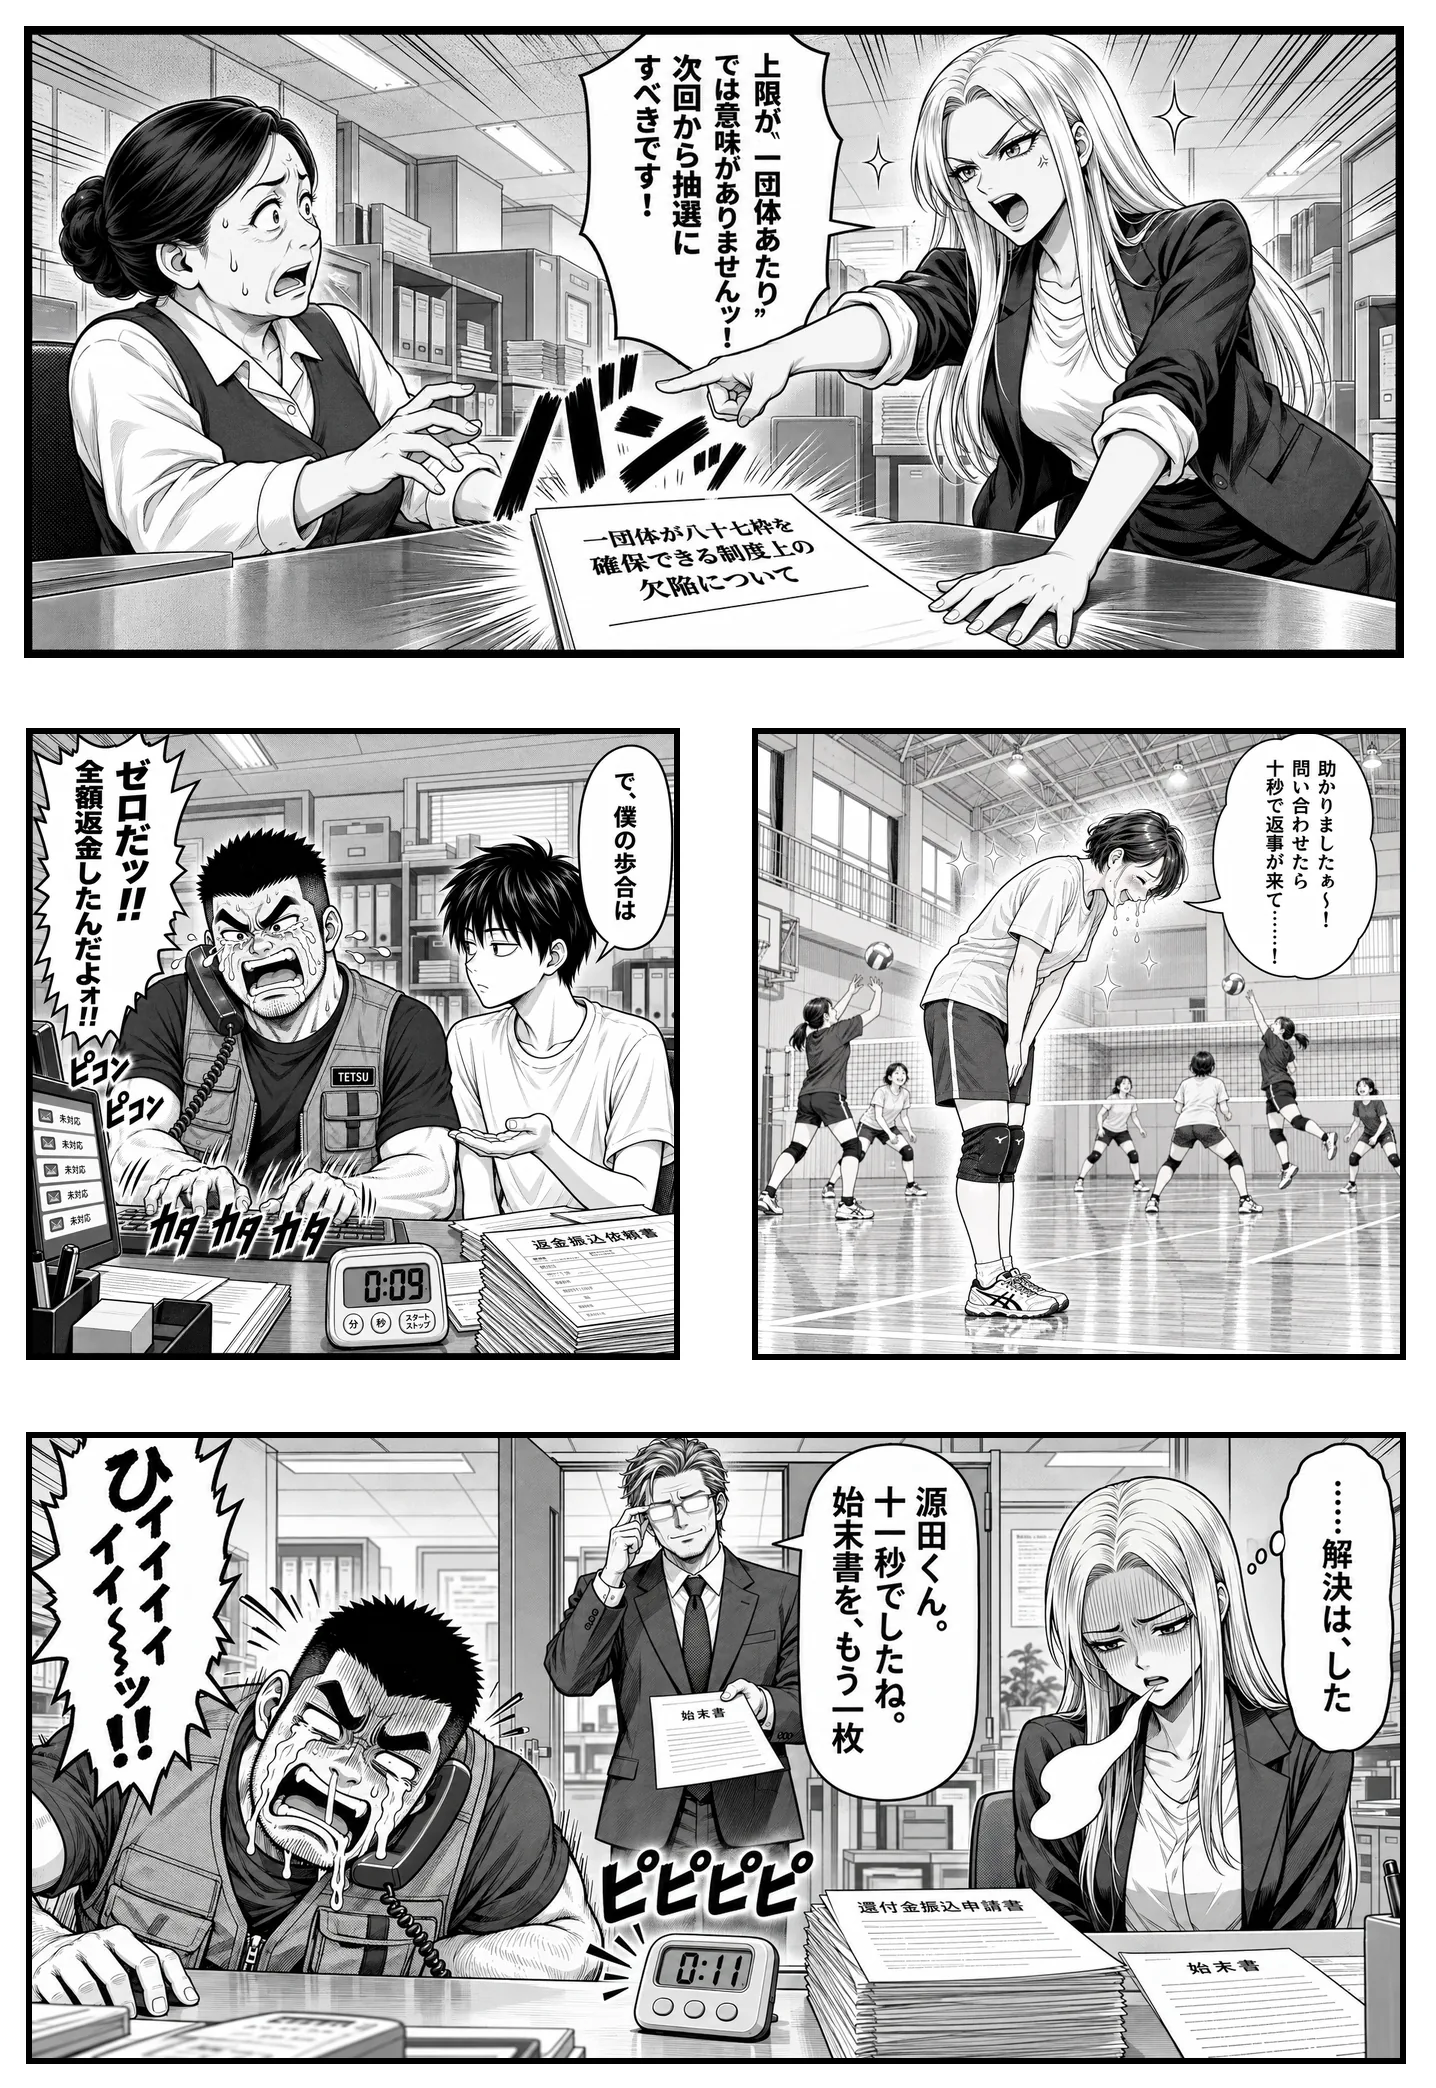
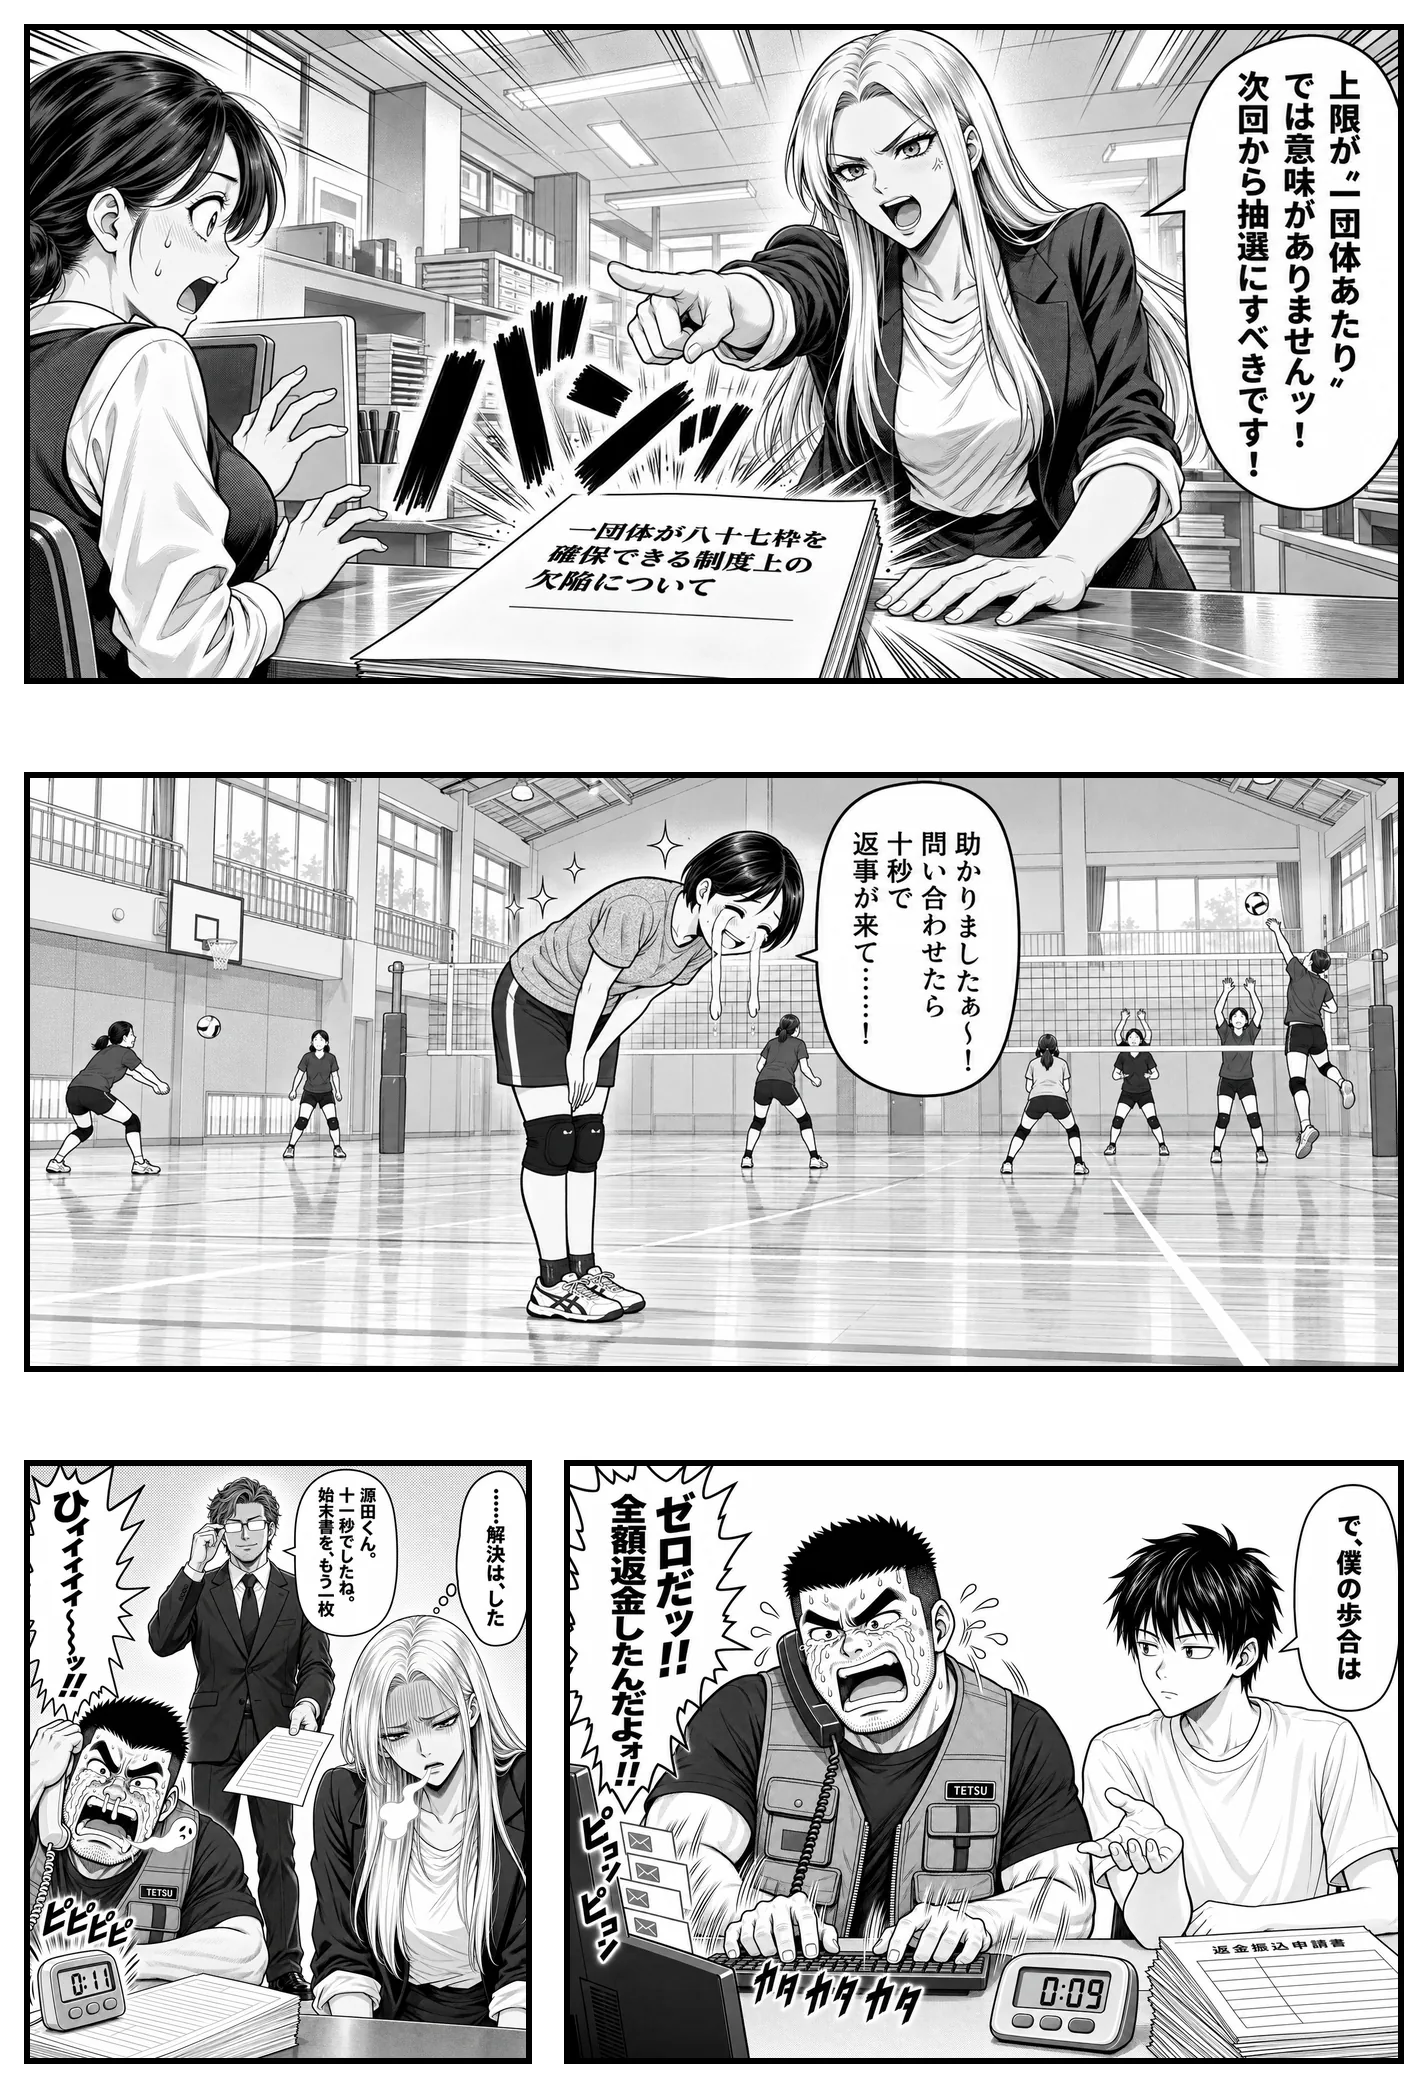
第1話のコマ割りを新しい基準で組み直し、扉絵を付ける
- 構成どおりの「大ゴマ＋左に小コマ」に組み替え（横44px・縦16pxの溝、大小の差をつける）
- 会話のコマは背景を描かず、場所を見せるコマと山場だけ描き込む
- 全41コマを描き直して採用し、扉絵「梨ヶ坂市へようこそ」を追加

diff --git a/ep/1/index.html b/ep/1/index.html
@@ -14,7 +14,7 @@
   <meta name="twitter:card" content="summary_large_image">
   <link rel="icon" href="../../assets/favicon.svg" type="image/svg+xml">
   <link rel="stylesheet" href="../../assets/reader.css">
-  <link rel="preload" as="image" href="pages/p01.webp">
+  <link rel="preload" as="image" href="pages/p00.webp">
 </head>
 <body class="reader-body">
   <main id="reader" class="reader" data-episode="1" data-base="../../">
@@ -38,7 +38,7 @@
     <footer class="bar bar-bottom">
       <div class="controls">
         <button id="next" class="nav-btn" type="button" aria-label="次のページ（←キー）">◀ 次へ</button>
-        <span id="indicator" class="indicator">1 / 11</span>
+        <span id="indicator" class="indicator">扉 / 11</span>
         <button id="prev" class="nav-btn" type="button" aria-label="前のページ（→キー）">前へ ▶</button>
       </div>
     </footer>
